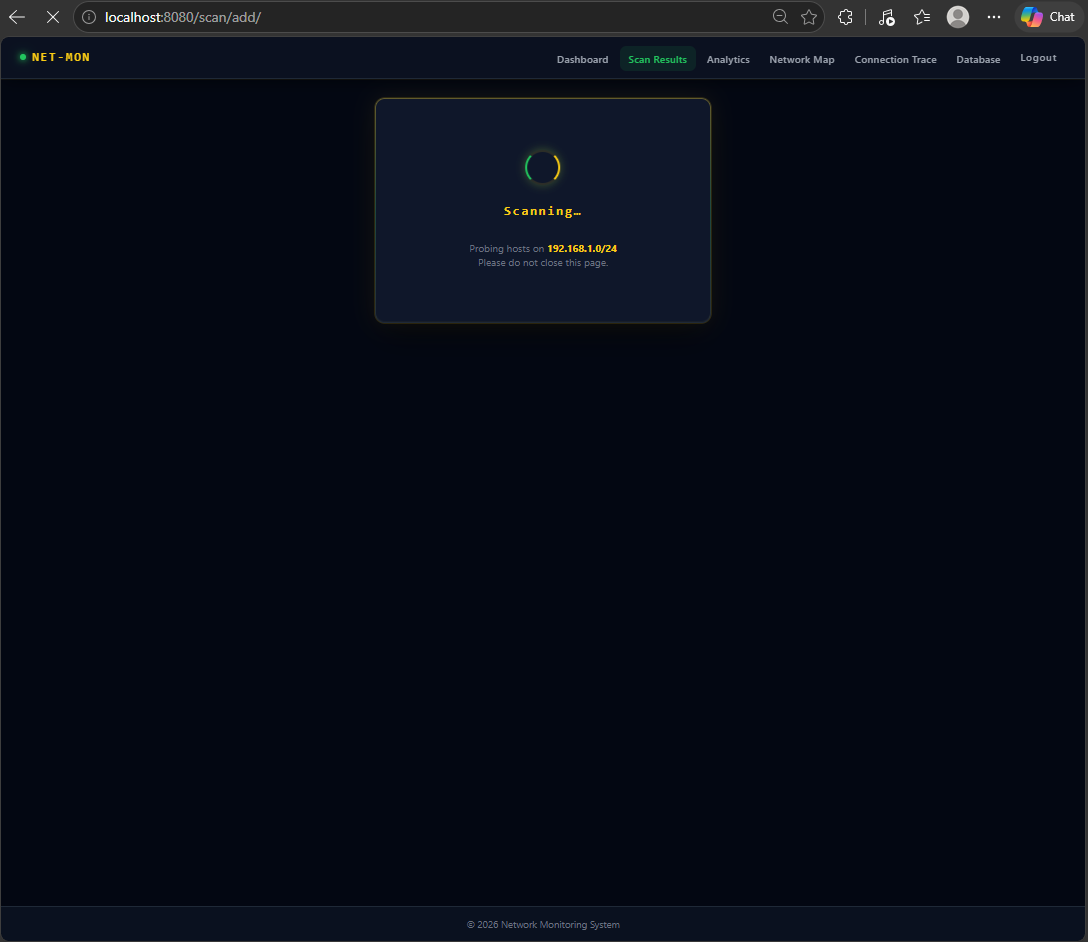
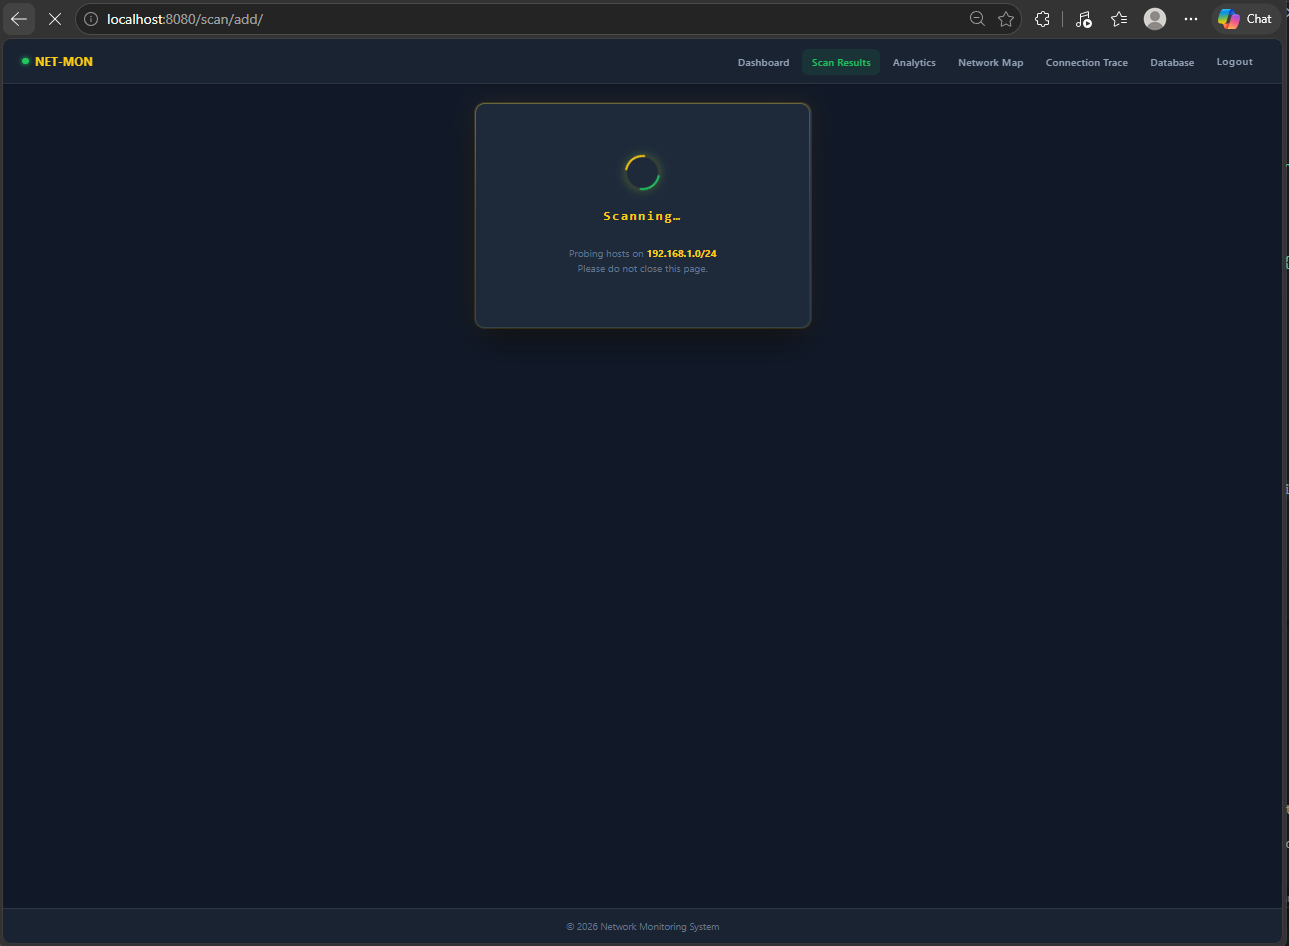
Initial commit: Django network monitoring app with real scanner and dashboard

Changed region(s): [[0.0, 0.0, 1.0, 1.0], [0.4375, 0.1539, 0.5625, 0.3079], [0.375, 0.3386, 0.625, 0.3694]]

diff --git a/readme.md b/readme.md
@@ -7,6 +7,8 @@ Aplikasi berbasis **Django** untuk:
 - Network inventory hasil scan (IP, device, OS, brand, gateway, router, DNS, MAC, latency, open ports).
 - Peta jaringan interaktif (network mapping).
 - Riwayat port dan MAC address perangkat untuk perbandingan antar scan.
+- **Analytics** — visualisasi trace koneksi, top destinations, traffic by country, device types, OS breakdown.
+- **Connection Trace** — traceroute ke destination dengan peta hop & geolokasi.
 
 ## ⚙ Fitur Utama
 - **Autentikasi & Role Management**
@@ -32,14 +34,36 @@ Aplikasi berbasis **Django** untuk:
   - Identifikasi duplikat IP dan MAC.
 - **Dashboard Monitoring**
   - Ringkasan jumlah device, distribusi OS & brand.
-  - Grafik interaktif dengan Chart.js.
+  - Grafik interaktif dengan Chart.js (doughnut OS distribution, brand distribution).
+  - Tabel recent scans dengan pagination.
+- **Analytics**
+  - Summary cards: total traces, unique destinations, countries reached, total hops, devices scanned, router clients.
+  - Bar chart: top destinations, device types.
+  - Doughnut chart: traffic by country, OS breakdown.
+  - Tabel: top destinations, top countries, recent traces — semua dengan pagination.
 - **Network Mapping**
   - Visualisasi topologi jaringan menggunakan vis.js.
-  - Node: IP/device.
-  - Edge: hubungan ke gateway.
+  - Node: IP/device. Edge: hubungan ke gateway.
+- **Connection Trace**
+  - Traceroute ke destination host.
+  - Simpan riwayat hop dengan IP, latency, dan geolokasi per hop.
+- **Database Maintenance**
+  - Tabel semua model dengan VACUUM FULL, Reindex, Rebuild Indexes.
+  - Checkbox per tabel / select all.
+  - Tampilkan rows, size, status vacuum/index, dan last maintenance timestamp.
 - **Auto Setup**
   - `run.sh` / `run.bat` otomatis membuat database, menjalankan migrasi, dan seed data awal.
   - Seed hanya berjalan jika tabel kosong (idempoten).
+
+## 🎨 Tema & UI
+- **Dark green-navy theme** — background `#111827`, surface `#1a2332`, card `#1e2a3a`.
+- **Aksen kuning/gold** (`#facc15`) untuk tombol, highlight, dan logo.
+- **Aksen hijau** (`#22c55e`) untuk status online, nav active, dan badge.
+- Navbar sticky dengan logo `NET-MON` + indikator hijau pulsing.
+- Card dengan colored left-border per kategori (biru, hijau, kuning, orange, ungu).
+- Chart.js bar & doughnut charts dengan palette multi-warna.
+- Tombol `+ Run Scan` / `+ New Trace` gold gradient.
+- Tabel dengan hover highlight kuning transparan.
 
 ## 🛠 Instalasi & Menjalankan
 
@@ -104,12 +128,16 @@ project/
 │   ├── base.html
 │   ├── login.html
 │   ├── dashboard.html
+│   ├── analytics.html
 │   ├── network_map.html
+│   ├── trace_connection.html
+│   ├── router_clients.html
 │   ├── scan_list.html
 │   ├── scan_detail.html
 │   ├── scan_form.html
 │   ├── scan_trigger.html
-│   └── scan_confirm_delete.html
+│   ├── scan_confirm_delete.html
+│   └── db_maintenance.html
 ├── static/
 │   └── css/
 │       └── style.css
@@ -141,50 +169,53 @@ DATABASES = {
 5. Sistem melakukan ping sweep, live host discovery, dan port scan.
 6. Host tanpa open port tetap terdeteksi menggunakan fallback inference (hostname, MAC vendor, TTL).
 7. Dashboard menampilkan inventory & statistik.
-8. **Network Map** menampilkan topologi interaktif.
-9. **Database Maintenance** untuk VACUUM, REINDEX, dan rebuild index.
+8. **Analytics** menampilkan chart trace, destinations, countries, device & OS breakdown.
+9. **Network Map** menampilkan topologi interaktif.
+10. **Database Maintenance** untuk VACUUM, REINDEX, dan rebuild index per tabel.
 
-## 🔮 Fitur Tambahan
-- Alert & Notifikasi
-  - Kirim email/telegram jika ada device baru atau perubahan OS.
-- Scheduled Scan
-  - Gunakan Celery atau django-crontab untuk scan otomatis.
-- Export Data
-  - Export hasil scan ke CSV/Excel.
-- Integrasi SNMP
-  - Ambil informasi device lebih detail (CPU, memory, interface).
-- User Activity Log
-  - Audit trail untuk login & aksi user.
-- API Endpoint
-  - Django Rest Framework untuk integrasi dengan aplikasi lain.
-- Security Check
-  - Tambahkan port scan & vulnerability check dasar.
-- Multi-subnet Support
-  - Scan lebih dari satu range IP sekaligus.
-- Historical Trends
-  - Grafik perubahan jumlah device/OS dari waktu ke waktu.
+## 🔮 Fitur Tambahan (Roadmap)
+- Alert & Notifikasi — email/telegram jika ada device baru atau perubahan OS.
+- Scheduled Scan — Celery atau django-crontab untuk scan otomatis.
+- Export Data — Export hasil scan ke CSV/Excel.
+- Integrasi SNMP — Ambil informasi device lebih detail (CPU, memory, interface).
+- User Activity Log — Audit trail untuk login & aksi user.
+- API Endpoint — Django Rest Framework untuk integrasi eksternal.
+- Security Check — Port scan & vulnerability check dasar.
+- Multi-subnet Support — Scan lebih dari satu range IP sekaligus.
+- Historical Trends — Grafik perubahan jumlah device/OS dari waktu ke waktu.
 
-## 📸 Tampilan
-- Tema gelap elegan dengan aksen cyan.
-- Navbar sticky, card-based dashboard, tabel data yang rapi.
-- Chart.js untuk statistik OS dan brand.
-- vis.js untuk network topology.
+## 📸 Screenshots
 
-### Screenshots
-![Login](img/Screenshot%202026-07-24%20at%2002.26.35.png)
-![Dashboard](img/Screenshot%202026-07-24%20at%2002.29.13.png)
-![Scan List](img/Screenshot%202026-07-24%20at%2002.29.26.png)
-![Scan Detail](img/Screenshot%202026-07-24%20at%2002.29.33.png)
-![Scan Edit](img/Screenshot%202026-07-24%20at%2002.29.42.png)
-![Scan Delete Confirmation](img/Screenshot%202026-07-24%20at%2002.29.55.png)
-![Network Map](img/Screenshot%202026-07-24%20at%2002.31.14.png)
-![Scan Trigger](img/Screenshot%202026-07-24%20at%2002.31.41.png)
-![Scan Results Table](img/Screenshot%202026-07-24%20at%2003.25.50.png)
-![Phones Detected](img/Screenshot%202026-07-24%20at%2003.25.59.png)
-![PCs and Devices](img/Screenshot%202026-07-24%20at%2003.26.05.png)
-![Full Inventory](img/Screenshot%202026-07-24%20at%2003.26.12.png)
+| Login | Dashboard |
+|:---:|:---:|
+| <img src="img/login.png" width="380"> | <img src="img/dasboard.png" width="380"> |
+
+| Scan Results | Scanning Progress |
+|:---:|:---:|
+| <img src="img/scan.png" width="380"> | <img src="img/scan2.png" width="380"> |
+
+| Analytics | Database Maintenance |
+|:---:|:---:|
+| <img src="img/analityc.png" width="380"> | <img src="img/database.png" width="380"> |
+
+## 📝 Changelog
+
+### 2026-07-25
+- **CSS theme overhaul** — diganti dari light/white theme ke dark green-navy theme sesuai Haze dashboard sample:
+  - `--bg-root` `#F9FAFB` → `#111827`
+  - `--bg-surface` `#FFFFFF` → `#1a2332`
+  - `--bg-elevated` `#FFFFFF` → `#1e2a3a`
+  - `--text-primary` `#1C252E` → `#e2e8f0`
+  - `--accent` blue `#3b82f6` → gold `#facc15` (konsisten dengan tombol dan highlight)
+  - Shadow values diperbarui untuk dark background (opacity lebih tinggi).
+- **CSS cleanup** — dihapus duplicate `.btn-primary`, `.btn-small`, `.btn-danger` blocks dan orphaned CSS rules tanpa selector yang menyebabkan parse error.
+- **Chart box** — background diubah dari `rgba(15,23,42,0.55)` ke `var(--bg-elevated)` agar konsisten dengan card lain.
+- **Glass box** — sama, menggunakan `var(--bg-elevated)` dan `var(--border-default)`.
+- **Navbar hover** — diubah dari accent-muted ke subtle white overlay untuk kontras yang lebih baik di dark bg.
+- **ISP label/value** — duplikat rule digabung menjadi satu definisi bersih.
+- **Analytics template** — halaman analytics dengan summary cards, 4 chart (bar + doughnut), tabel top destinations/countries, dan recent traces.
 
 ## 🚀 Push ke GitHub
 ```bash
-bash push.sh  
+bash push.sh
 ```
